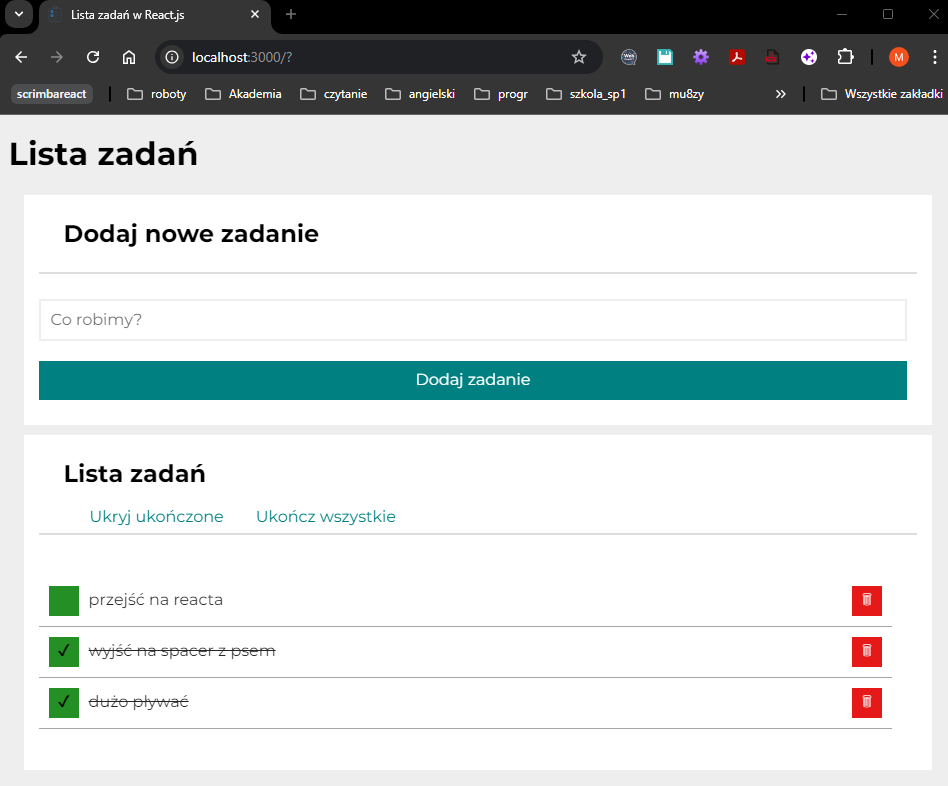
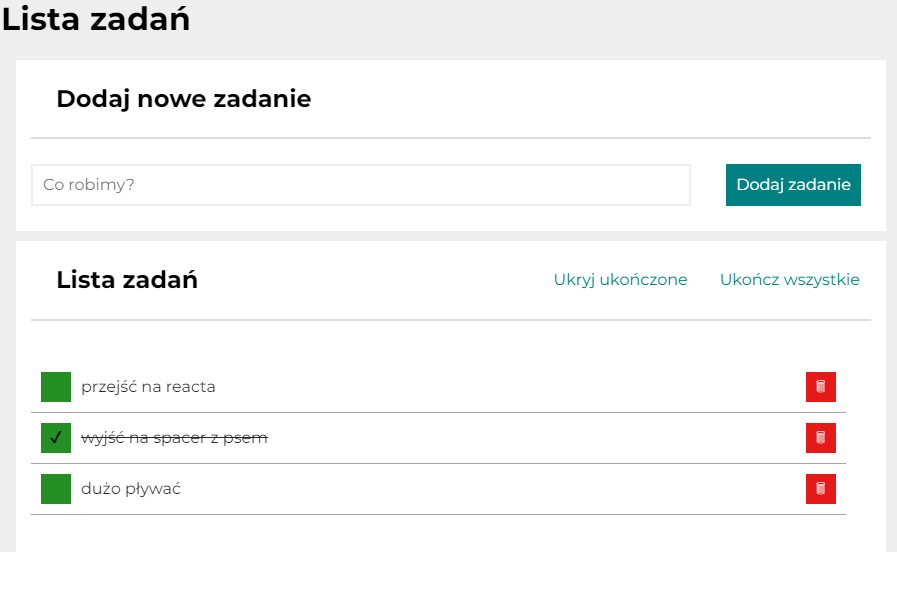
todo_screen1 replaced

diff --git a/src/App.js b/src/App.js
@@ -9,7 +9,7 @@ import Container from "./Container";
 const tasks = [
     { id: 1, content: "przejść na reacta", done: false },
     { id: 2, content: "wyjść na spacer z psem", done: true },
-    { id: 3, content: "dużo pływać", done: true},
+    { id: 3, content: "dużo pływać", done: false},
 ];
 const hideDoneTasks = false;
 

diff --git a/src/Buttons/style.css b/src/Buttons/style.css
@@ -1,6 +1,7 @@
 .buttons {
     display: flex;
     flex-wrap: wrap;
+    justify-content: flex-end;
 }
 
 .buttons__button {
